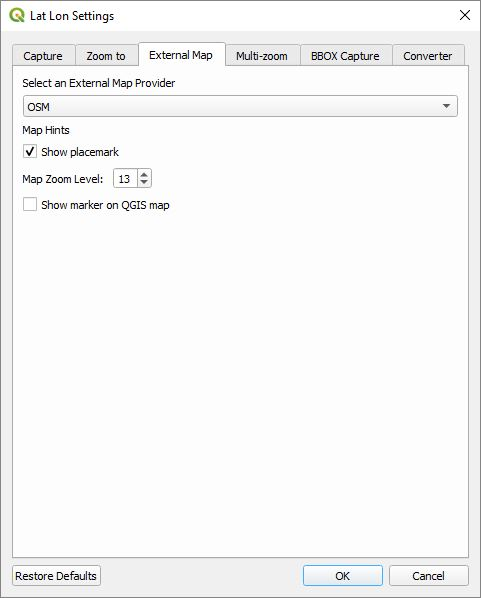
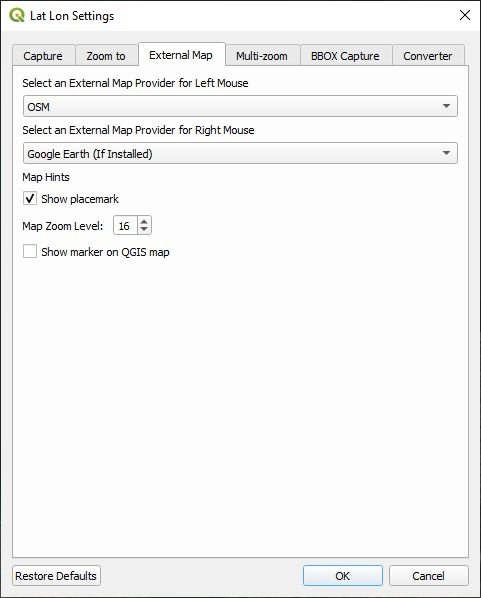
Enhanced external map support.

diff --git a/settings.py b/settings.py
@@ -32,6 +32,7 @@ class Settings():
         ### EXTERNAL MAP ###
         self.showPlacemark = int(qset.value('/LatLonTools/ShowPlacemark', Qt.Checked))
         self.mapProvider = int(qset.value('/LatLonTools/MapProvider', 0))
+        self.mapProviderRight = int(qset.value('/LatLonTools/MapProviderRight', 0))
         self.mapZoom = int(qset.value('/LatLonTools/MapZoom', 13))
         self.externalMapShowLocation = int(qset.value('/LatLonTools/ExternMapShowClickedLocation', Qt.Unchecked))
 
@@ -57,21 +58,30 @@ class Settings():
         self.converterDelimiter = qset.value('/LatLonTools/ConverterDelimiter', ', ')
         self.converterDdmmssDelimiter = qset.value('/LatLonTools/ConverterDdmmssDelimiter', ', ')
 
-    def googleEarthMapProvider(self):
-        if self.mapProvider >= len(mapProviders.MAP_PROVIDERS):
-            return True
+    def googleEarthMapProvider(self, button=0):
+        if button == 2:
+            if self.mapProviderRight >= len(mapProviders.MAP_PROVIDERS):
+                return True
+        else:
+            if self.mapProvider >= len(mapProviders.MAP_PROVIDERS):
+                return True
         return False
 
-    def getMapProviderString(self, lat, lon):
-        if self.showPlacemark:
-            ms = mapProviders.MAP_PROVIDERS[self.mapProvider][2]
+    def getMapProviderString(self, lat, lon, button=0):
+        if button == 2:
+            if self.showPlacemark:
+                ms = mapProviders.MAP_PROVIDERS[self.mapProviderRight][2]
+            else:
+                ms = mapProviders.MAP_PROVIDERS[self.mapProviderRight][1]
         else:
-            ms = mapProviders.MAP_PROVIDERS[self.mapProvider][1]
+            if self.showPlacemark:
+                ms = mapProviders.MAP_PROVIDERS[self.mapProvider][2]
+            else:
+                ms = mapProviders.MAP_PROVIDERS[self.mapProvider][1]
         ms = ms.replace('@LAT@', str(lat))
         ms = ms.replace('@LON@', str(lon))
         ms = ms.replace('@Z@', str(self.mapZoom))
         return ms
-
 
 settings = Settings()
 
@@ -118,6 +128,7 @@ class SettingsWidget(QDialog, FORM_CLASS):
 
         ### EXTERNAL MAP ###
         self.mapProviderComboBox.addItems(mapProviders.mapProviderNames())
+        self.mapProviderRComboBox.addItems(mapProviders.mapProviderNames())
 
         ### MULTI-ZOOM ###
         self.multiZoomToProjectionComboBox.addItems(['WGS 84 (Latitude & Longitude)', 'Project CRS', 'Custom CRS', 'MGRS', 'Plus Codes', 'Standard UTM'])
@@ -187,6 +198,7 @@ class SettingsWidget(QDialog, FORM_CLASS):
         ### EXTERNAL MAP ###
         self.showPlacemarkCheckBox.setCheckState(Qt.Checked)
         self.mapProviderComboBox.setCurrentIndex(0)
+        self.mapProviderRComboBox.setCurrentIndex(0)
         self.zoomSpinBox.setValue(13)
         self.showLocationCheckBox.setCheckState(Qt.Unchecked)
 
@@ -301,6 +313,7 @@ class SettingsWidget(QDialog, FORM_CLASS):
         qset.setValue('/LatLonTools/ShowPlacemark', self.showPlacemarkCheckBox.checkState())
         qset.setValue('/LatLonTools/ExternMapShowClickedLocation', self.showLocationCheckBox.checkState())
         qset.setValue('/LatLonTools/MapProvider', int(self.mapProviderComboBox.currentIndex()))
+        qset.setValue('/LatLonTools/MapProviderRight', int(self.mapProviderRComboBox.currentIndex()))
         qset.setValue('/LatLonTools/MapZoom', int(self.zoomSpinBox.value()))
 
         ### MULTI-ZOOM TO SETTINGS ###
@@ -420,6 +433,7 @@ class SettingsWidget(QDialog, FORM_CLASS):
         self.showPlacemarkCheckBox.setCheckState(settings.showPlacemark)
         self.showLocationCheckBox.setCheckState(settings.externalMapShowLocation)
         self.mapProviderComboBox.setCurrentIndex(settings.mapProvider)
+        self.mapProviderRComboBox.setCurrentIndex(settings.mapProviderRight)
         self.zoomSpinBox.setValue(settings.mapZoom)
 
         ### MULTI-ZOOM CUSTOM QML STYLE ###

diff --git a/mapProviders.py b/mapProviders.py
@@ -7,7 +7,9 @@ MAP_PROVIDERS = [
     ['MapQuest Map', 'https://www.mapquest.com/latlng/@LAT@,@LON@?centerOnResults=1&zoom=@Z@', 'https://www.mapquest.com/latlng/@LAT@,@LON@?centerOnResults=1&zoom=@Z@'],
     ['MapQuest Aerial', 'https://www.mapquest.com/latlng/@LAT@,@LON@?centerOnResults=1&maptyp=sat&zoom=@Z@', 'https://www.mapquest.com/latlng/@LAT@,@LON@?centerOnResults=1&maptyp=sat&zoom=@Z@'],
     ['Mapillary Street', 'https://www.mapillary.com/app/?lat=@LAT@&lng=@LON@&z=@Z@&mapStyle=mapbox_streets', 'https://www.mapillary.com/app/?lat=@LAT@&lng=@LON@&z=@Z@&mapStyle=mapbox_streets'],
-    ['Mapillary Aerial', 'https://www.mapillary.com/app/?lat=@LAT@&lng=@LON@&z=@Z@&mapStyle=mapbox_satellite', 'https://www.mapillary.com/app/?lat=@LAT@&lng=@LON@&z=@Z@&mapStyle=mapbox_satellite']
+    ['Mapillary Aerial', 'https://www.mapillary.com/app/?lat=@LAT@&lng=@LON@&z=@Z@&mapStyle=mapbox_satellite', 'https://www.mapillary.com/app/?lat=@LAT@&lng=@LON@&z=@Z@&mapStyle=mapbox_satellite'],
+    ['iD Editor ESRI World Imagery', 'https://preview.ideditor.com/master/#background=EsriWorldImagery&disable_features=boundaries&map=@Z@/@LAT@/@LON@&overlays=BANO&photo_overlay=mapillary-map-features', 'https://preview.ideditor.com/master/#background=EsriWorldImagery&disable_features=boundaries&map=@Z@/@LAT@/@LON@&overlays=BANO&photo_overlay=mapillary-map-features'],
+    ['iD Editor OpenTopoMap', 'https://preview.ideditor.com/master/#background=OpenTopoMap&disable_features=boundaries&map=@Z@/@LAT@/@LON@&overlays=BANO&photo_overlay=mapillary-map-features','https://preview.ideditor.com/master/#background=OpenTopoMap&disable_features=boundaries&map=@Z@/@LAT@/@LON@&overlays=BANO&photo_overlay=mapillary-map-features']
 ]
 
 

diff --git a/showOnMapTool.py b/showOnMapTool.py
@@ -45,12 +45,14 @@ class ShowOnMapTool(QgsMapToolEmitPoint):
         else:
             self.removeMarker()
 
+        button = event.button()
+
         canvasCRS = self.canvas.mapSettings().destinationCrs()
         transform = QgsCoordinateTransform(canvasCRS, epsg4326, QgsProject.instance())
         pt4326 = transform.transform(pt.x(), pt.y())
         lat = pt4326.y()
         lon = pt4326.x()
-        if settings.googleEarthMapProvider():
+        if settings.googleEarthMapProvider(button):
             f = tempfile.NamedTemporaryFile(mode='w', suffix=".kml", delete=False)
             f.write('<?xml version="1.0" encoding="UTF-8"?>')
             f.write('<kml xmlns="http://www.opengis.net/kml/2.2" xmlns:gx="http://www.google.com/kml/ext/2.2" xmlns:kml="http://www.opengis.net/kml/2.2" xmlns:atom="http://www.w3.org/2005/Atom">')
@@ -72,7 +74,7 @@ class ShowOnMapTool(QgsMapToolEmitPoint):
                 webbrowser.open(f.name)
             self.iface.messageBar().pushMessage("", "Viewing Coordinate %f,%f in Google Earth" % (lat, lon), level=Qgis.Info, duration=3)
         else:
-            mapprovider = settings.getMapProviderString(lat, lon)
+            mapprovider = settings.getMapProviderString(lat, lon, button)
             url = QUrl(mapprovider).toString()
             webbrowser.open(url, new=2)
             self.iface.messageBar().pushMessage("", "Viewing Coordinate %f,%f in external map" % (lat, lon), level=Qgis.Info, duration=3)

diff --git a/readme.md b/readme.md
@@ -10,7 +10,7 @@ Some of the functions can be accessed from the ***Lat Lon Tools*** toolbar. If f
 
 * <img src="images/copyicon.png" alt="Copy/Display coordinate"> ***Copy/Display Coordinate*** - This captures coordinates onto the clipboard when the user clicks on the map, using the standard Google Map format or a format specified in ***Settings***. If the user specifies a **Tab** separator, then the coordinate can be pasted into a spreadsheet in separate columns. While this tool is selected, the coordinate the mouse is over is shown in the lower left-hand corner either in **decimal degrees**, **DMS**, **MGRS**, **Standard UTM**, **Plus Codes**, **WKT POINT**, or **GeoJSON** notation depending on the **Settings**. By default it uses the geographic Latitude and Longitude to snapshot the coordinate, but this can be configured in **Settings** to use the project CRS or any other projection desired. See the **Settings** section for more details on the all the possibilities. An additional prefix or suffix can be added to the coordinate and is configured in **Settings**. If snapping is enabled under QGIS ***Project->Snapping Options...*** menu, then *Copy/Display Coordinate* will snap to any close vector vertices according to the parameters set in the snapping options.
   
-* <img src="images/mapicon.png" alt="Show in External Map"> ***Show in External Map*** - With this tool, the user can click on the QGIS map which launches an external browser and displays the location on an external map. Currently Open Street Map, Google Maps, MapQuest, and Bing Maps are supported. Google Earth is supported if it is installed on the system. The desired map can be configured in **Settings**. A temporary marker can be displayed on the map at the location clicked on. To turn this on go to **Settings**. If snapping is enabled, then the clicked location will snap to any close vector vertices according to the parameters set in the snapping options.
+* <img src="images/mapicon.png" alt="Show in External Map"> ***Show in External Map*** - With this tool, the user can click on the QGIS map which launches an external browser and displays the location on an external map. The left and right mouse buttons can be configured to show different maps. Currently Open Street Map, Google Maps, MapQuest, Mapillary, Open Street Map iD Editor, and Bing Maps are supported. Google Earth is supported if it is installed on the system. The desired maps can be configured in **Settings**. A temporary marker can be displayed on the map at the location clicked on. To turn this on go to **Settings**. If snapping is enabled, then the clicked location will snap to any close vector vertices according to the parameters set in the snapping options.
 
 * <img src="images/zoomicon.png" alt="Zoom-to"> ***Zoom to Coordinate*** - With this tool, type or paste a coordinate into the text area and hit **Enter**. QGIS centers the map on the coordinate, highlights the location and creates a temporary marker at the location. The marker can be removed with the <img src="doc/cleartool.jpg" alt="Clear marker"> button. If the default **WGS 84** (EPSG:4326 - latitude/longitude) coordinate system is specified, ***Zoom to Coordinate*** can interpret **decimal degrees**, **DMS**, **WKT POINT**, **Standard UTM**, **MGRS**, **Plus Codes**, or **GeoJSON** coordinates. It can also zoom to any other projection when configured in **Settings**. The ***Coordinate Order*** in ***Settings*** dictates whether the order is latitude followed by longitude (Y,X) or longitude followed by latitude (X,Y). By default the order is "Latitude, Longitude", the format used by Google Maps. Pressing the <img src="doc/zoomtool.jpg" alt="Zoom button"> also causes QGIS to zoom to that location.<br /><div style="text-align:center"><img src="doc/zoomto.jpg" alt="Zoom to Latitude, Longitude"></div><br />The following are acceptable coordinate formats when the ***Settings*** **Zoom to Coordinate Type** is set to ***WGS 84 (Latitude & Longitude)***. When the letters "N, S, E, W" are used, then the coordinate order is not important. These letters can be used before or after the coordinates. As long as the coordinate is understandable, punctuation, spaces, and &deg; ' " are optional. In these examples "d" represents degree digits, "m" minutes, and "s" seconds. Here are some example input formats:
 
@@ -189,7 +189,7 @@ The order in which the coordinates are parsed in the ***Zoom to Latitude, Longit
 
 <div style="text-align:center"><img src="doc/settings3.jpg" alt="External Map Settings"></div>
 
-You can ***Select an External Map Provider***. The options are:
+You can ***Select an External Map Provider for Left Mouse***. The options are:
 
 * **OSM** - Open Street Map
 * **Google Map**
@@ -200,7 +200,11 @@ You can ***Select an External Map Provider***. The options are:
 * **MapQuest Aerial**
 * **Mapillary Street**
 * **Mapillary Aerial**
+* **iD Editor ESRI World Imagery**
+* **iD Editor OpenTopoMap**
 * **Google Earth** - (This only works if it is installed on your system)
+
+***Select an External Map Provider for Right Mouse*** has the same set of options. These correspond to the left and right mouse buttons.
 
 ***Map Hints*** are desired attributes you would like to see in the resulting map. 
 
